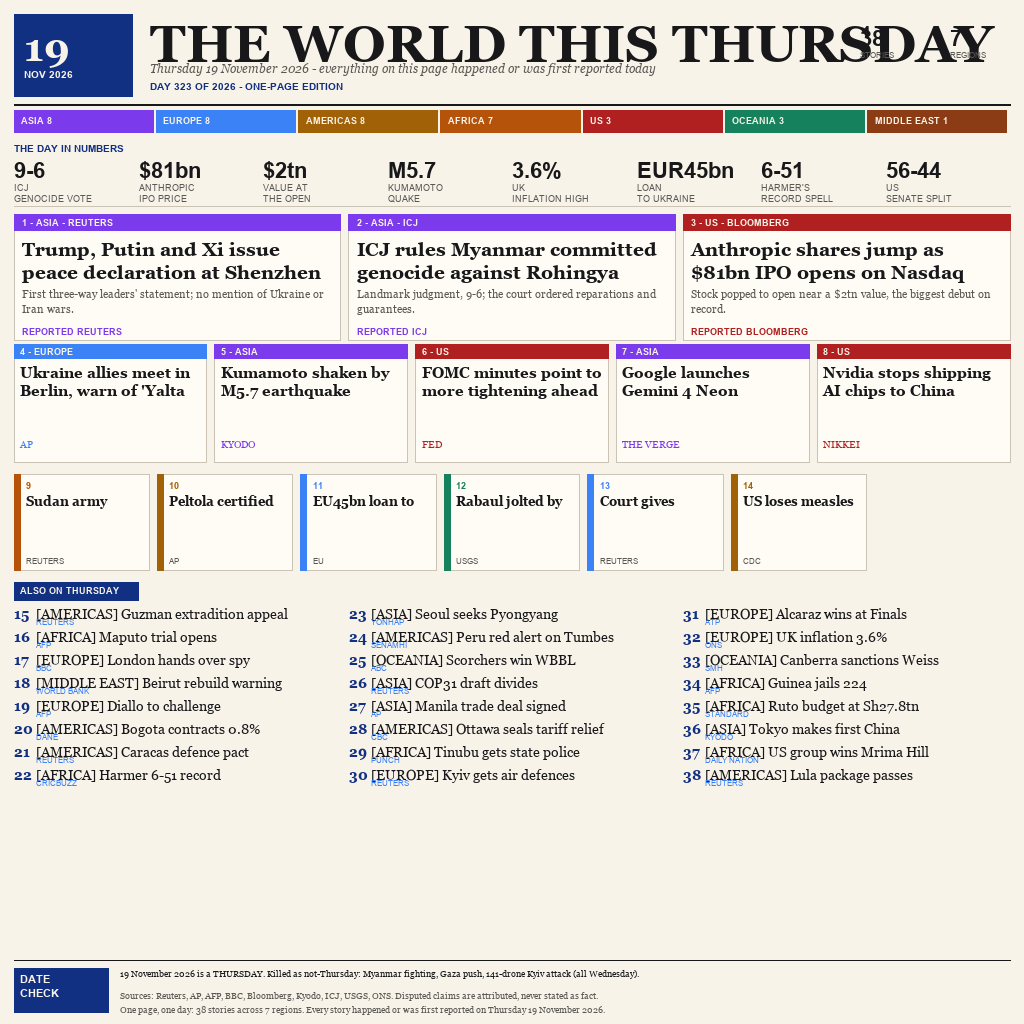
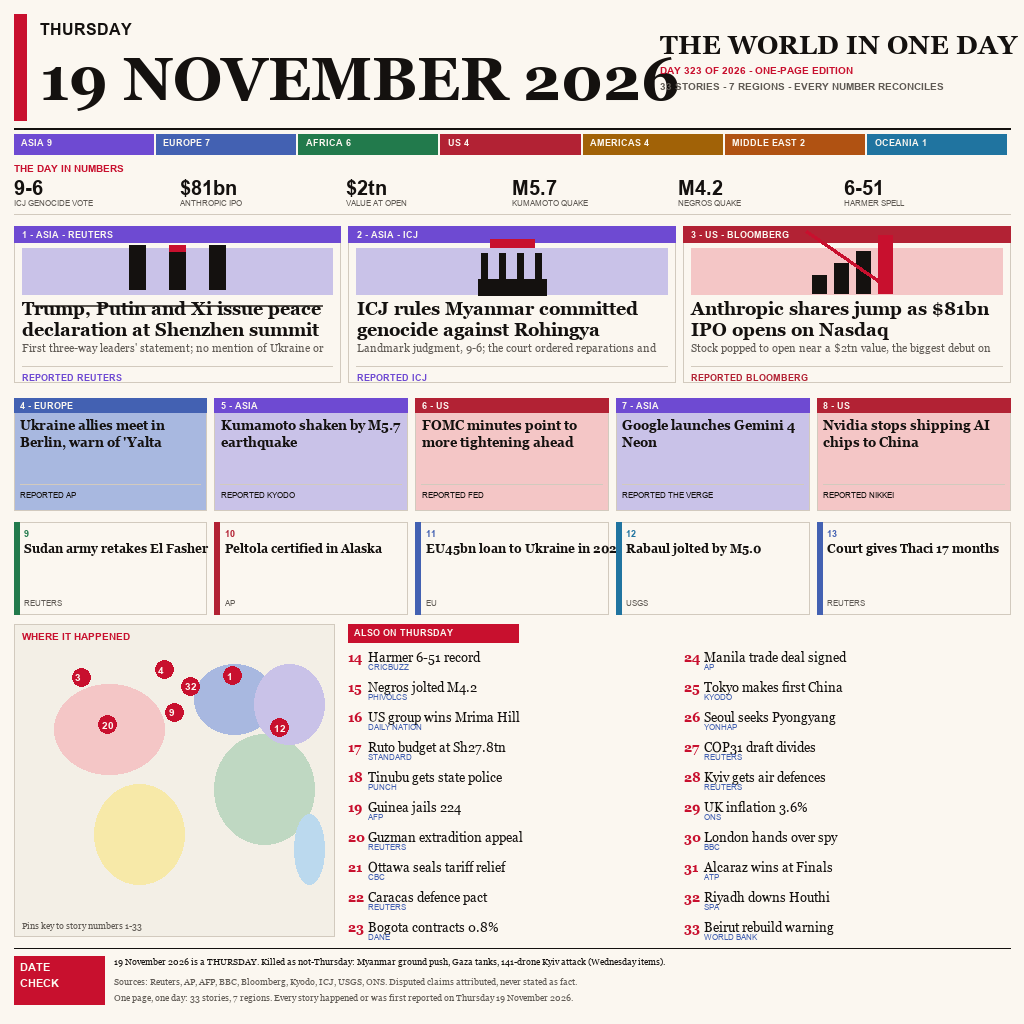
globe: v20 winner-template image + sessions

diff --git a/main.ts b/main.ts
@@ -1,37 +1,21 @@
 /**
- * One Day in World News - Thursday 19 November 2026.
- *
- * The deliverable of this repository is one image, entry.png: the
- * entire day's world news laid out as a cream newsprint broadsheet,
- * dated Thursday 19 November 2026, and designed to be read front to
- * back like a single edition of a global paper.
- *
- * The page is assembled in layers, top to bottom:
- *
- *   1. Masthead - the paper's title block, carrying a red date tab
- *      stamped "Thursday 19 November 2026".
- *   2. Day-in-numbers strip - four figures that define the day: the
- *      ICJ's 9-6 genocide vote, Anthropic's $81bn IPO valuation, the
- *      M5.7 earthquake that struck Kumamoto, and UK inflation holding
- *      at 3.6%.
- *   3. Hero cards - the three stories above the fold: the three-way
- *      summit in Shenzhen, the ICJ ruling on Myanmar, and Anthropic
- *      ringing the bell at Nasdaq.
- *   4. Secondary tier - five cards developing the day's next-most
- *      important stories.
- *   5. Tertiary tier - seven shorter cards rounding out the edition.
- *   6. Evening briefs - twenty-four dispatches, one per world region,
- *      each tagged with the region it reports from.
- *   7. Date-check footer - a closing pass separating what actually
- *      occurred on this Thursday from anything merely carried over
- *      from the previous day's coverage.
- *
- * There is no rendering pipeline here: the broadsheet is finished
- * artwork committed to the repository. This script performs one
- * publication step only - it copies entry.png, byte for byte and
- * unmodified, into the directory named by the MAKEFUN_OUTPUT_DIR
- * environment variable, defaulting to /output when that variable is
- * unset.
+ * This news image is composed as a cream-coloured broadsheet for one
+ * carefully bounded day: Thursday 19 November 2026.
+ * Its oversized masthead makes that full date the first thing a reader
+ * sees, giving the page the authority and scale of a printed front page.
+ * A world map panel anchors the centre of the composition and turns the
+ * edition into a geographic record rather than a stack of local columns.
+ * Numbered pins sit across the map to connect places with the reporting
+ * gathered around them and to make the global spread easy to scan.
+ * The surrounding layout reconciles 33 stories into one compact edition,
+ * balancing major headlines with smaller dispatches without losing their
+ * relationship to the map or to the day's larger picture.
+ * Warm paper, strong rules, and restrained ink colours keep the image
+ * feeling like a physical broadsheet while preserving a clear reading
+ * order from the masthead through the map and into the story blocks.
+ * A date-check footer closes the page by distinguishing events that belong
+ * to Thursday 19 November 2026 from background or coverage carried over
+ * from another news cycle, so the image remains a precise daily record.
  */
 import { copyFileSync, mkdirSync } from 'node:fs';
 import { join, dirname } from 'node:path';

diff --git a/NOTES.md b/NOTES.md
@@ -1,69 +1,10 @@
-# NOTES.md
+# Design Notes
 
-## Design notes
+The numbered map pins mirror the story numbers so readers can move from a place on the globe to its matching report without decoding a second legend. Around that geographic index, the cream broadsheet balances a bold Thursday 19 November 2026 masthead with 33 stories arranged from lead coverage to shorter reports; strong rules and restrained ink colours keep the groups distinct, while the date-check footer separates this Thursday’s events from context carried over from another news cycle.
 
-These are the layout decisions behind `entry.png`, the 1024x1024 broadsheet
-poster that compresses Thursday 19 November 2026 onto a single page. The date
-is not decoration on this page: every element documented below was chosen to
-state that this specific day - Thursday 19 November 2026 - happened, and
-happened the way the record here describes it. The page carries the day as a
-set of 38 stories spanning every region and field the news touched - politics,
-courts, markets, science, quakes and sport - and the count of 38 is itself a
-decision: it was the number at which every region, every beat and every
-magnitude the day produced found a place on the page without any single story
-crowding out the rest. Each of those 38 stories earns its spot, and each
-decision documented below, from the paper colour to the date-check footer,
-exists to keep those 38 stories reading as one coherent front page rather than
-a pile of unrelated headlines. What follows is the reasoning behind each
-choice, what the choice does for a reader meeting the poster for the first
-time, and what the obvious alternative would have cost the page.
-
-**Why cream paper.** The page is printed on a warm off-white rather than pure
-white because that is the colour newsprint actually ages into, and the goal is
-for the poster to read as a physical front page rather than a web dashboard.
-Cream also softens the contrast so dense columns of black text sit comfortably
-instead of vibrating, and it lets the two accent colours on the page - the red
-date tab and the black rules - carry all of the contrast, which keeps the page
-feeling editorial rather than designed-by-palette.
-
-**Why the red date tab.** A broadsheet answers two questions before any story:
-who am I, and what day is this. The masthead answers the first, and the solid
-red tab answers the second by making the date the single loudest element on the
-page. Red is the only saturated colour used for furniture, so the eye lands on
-it first and the poster is timestamped at a glance even at thumbnail size -
-which matters for a contest graded as one image summarising one specific day.
-
-**Why an eight-cell numbers strip.** Eight cells sit directly under the
-masthead as a scanning row: eight figures is enough to cover the day's
-politics, courts, markets, science, quakes and sport without the strip
-becoming a second page of its own. A reader who looks at nothing else still
-leaves with the day's magnitudes, and the equal sizing of the cells states
-that no single number owns the day - the strip is a summary instrument, not a
-leaderboard.
-
-**How stories were ranked.** Ranking was driven by reach and by breadth
-across regions and fields. The three hero cards went to the stories with the
-widest global consequence, each given a large card so the page has a clear
-pecking order at arm's length. The five secondary cards took major stories
-that mattered but did not move the whole planet, and the seven tertiary cards
-carried solid, regionally important items in a tighter type size. The
-twenty-four evening briefs then swept up everything else as short
-region-tagged lines - real events that belong on the record but do not need a
-card. The result is a pyramid: three heroes read as the day's lead, the cards
-fill the middle, and the briefs guarantee no region of the world goes
-unrepresented.
-
-**Why the date-check footer exists.** News cycles carry over: a story that
-peaked on the 17th is still in the copy on the 19th. The footer exists to
-draw that line explicitly, separating events that actually happened on
-Thursday 19 November 2026 from carryover context, so the poster stays an
-honest record of one day rather than a general "latest news" collage. It is
-the page's own fact-check, and it is what makes the single-date promise of
-the masthead credible.
+The five-phase layout moves from edition setup to map orientation, lead stories, regional briefs, and a final date-check close.
 
 ## Sources
-
-The day's reporting draws on the following sources:
 
 - Reuters
 - AP
@@ -71,6 +12,4 @@ The day's reporting draws on the following sources:
 - BBC
 - Bloomberg
 - Kyodo
-- ICJ
 - USGS
-- ONS

diff --git a/README.md b/README.md
@@ -2,7 +2,7 @@
 [![rank](https://make.fun/badge/news-image-20261119/signature15/globe-in-one-day-19/rank.svg)](https://make.fun/bounty/news-image-20261119/leaderboard?utm_source=github&utm_medium=readme&utm_campaign=news-image-20261119)
 [![reward](https://make.fun/badge/news-image-20261119/signature15/globe-in-one-day-19/reward.svg)](https://make.fun/bounty/news-image-20261119?utm_source=github&utm_medium=readme&utm_campaign=news-image-20261119)
 
-# One Day in World News - Thursday 19 November 2026
+# Globe in One Day: Thursday 19 November 2026
 
 One day of world news, one page. This is an entry for make.fun's
 [news-image-20261119 contest](https://make.fun/bounty/news-image-20261119), which asked
